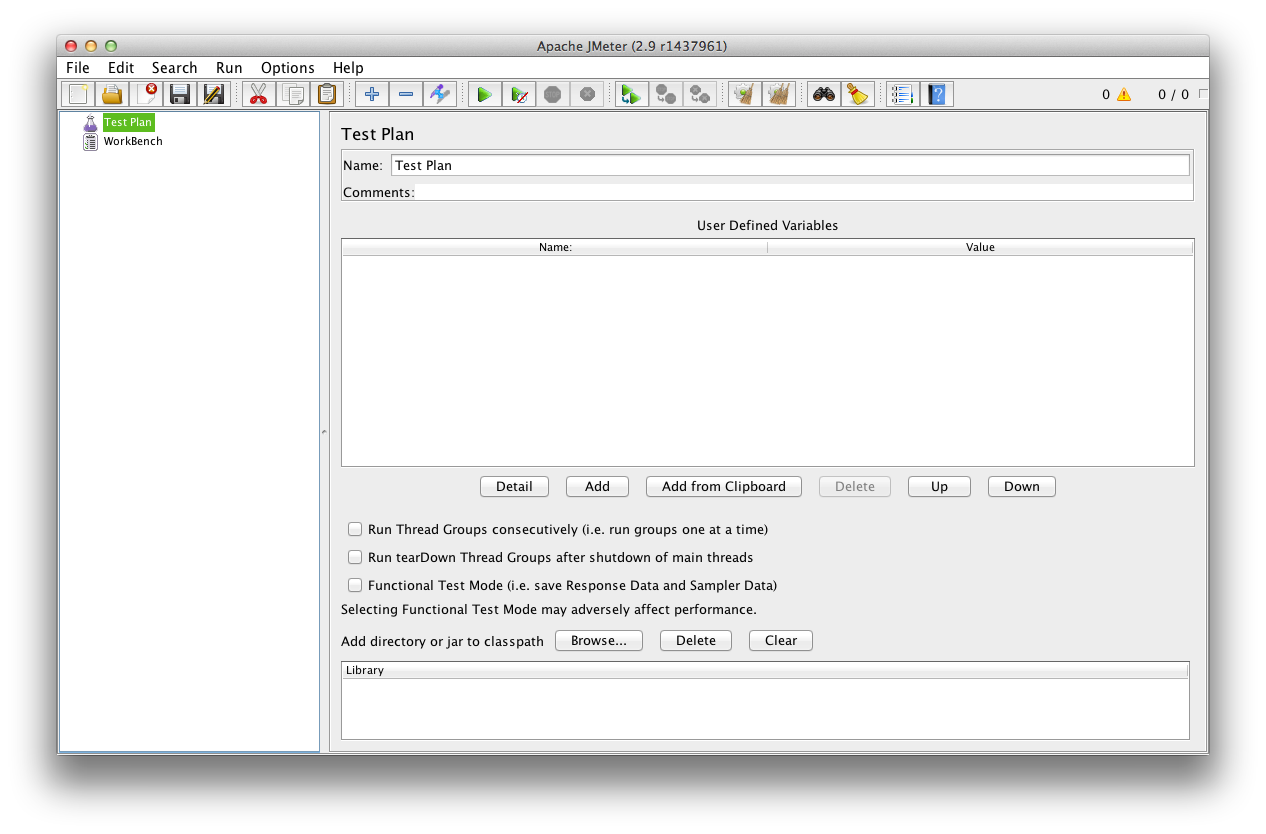
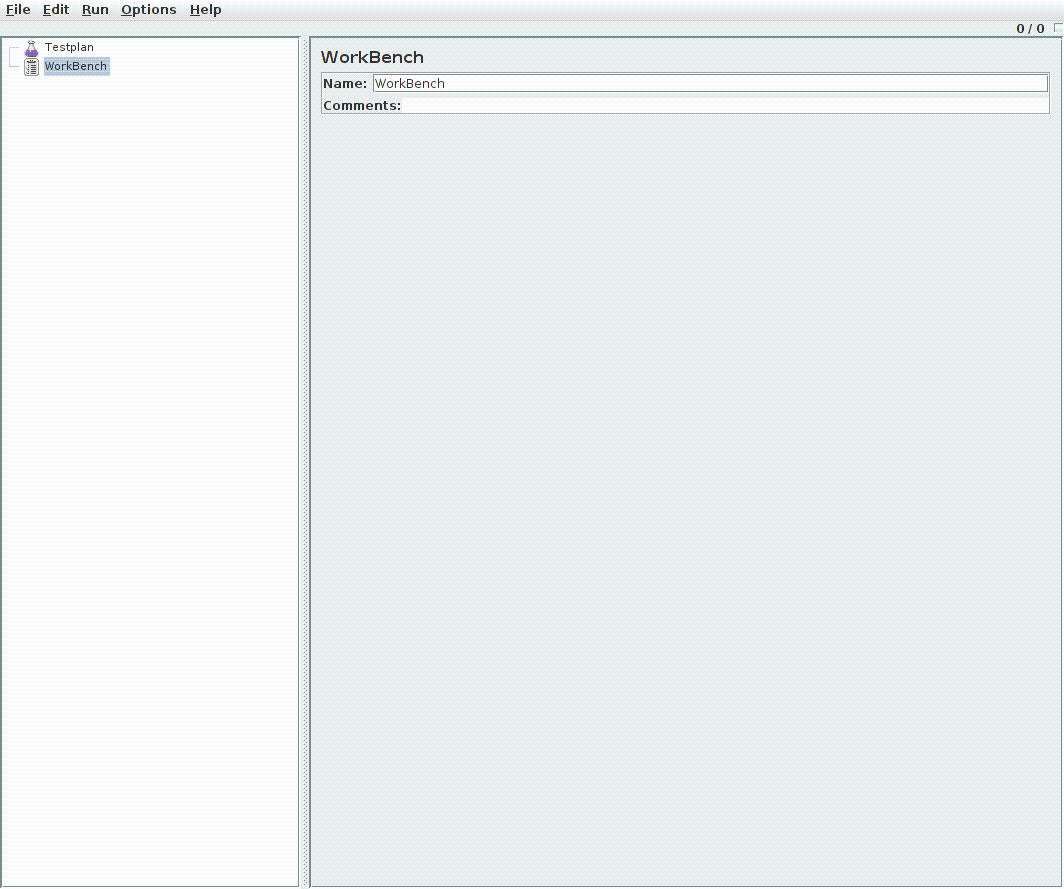
Add jmeter screenshots.

Changed region(s): [[0.0, 0.0, 1.0, 1.0]]

diff --git a/docs/source/jmeter/getting-started-with-jmeter.rst b/docs/source/jmeter/getting-started-with-jmeter.rst
@@ -21,8 +21,8 @@ of your distribution (e.g. on Debian/Ubuntu)::
    http://jmeter.apache.org/usermanual/get-started.html
 
 
-Step 2 : Create a minimal Testplan
-----------------------------------
+Step 2 : Create a Test Plan
+---------------------------
 
 Once you've started jMeter (e.g. by typing "jmeter" into the command line)
 you will see an empty Testplan:
@@ -45,7 +45,9 @@ Elements of a minimal test plan:
 
     * Summary Report (Listener)
 
-Test Plan:
+
+Step 3: Create a Thread Group
+-----------------------------
 
     Testplan > Add > Threads (Users) > Thread-Group (this might vary
     dependent on the jMeter version you are using)
@@ -54,6 +56,15 @@ Test Plan:
     Number of Threads (users): 2
     Ramp-Up Period (in seconds): 1
     Loop Count: 10
+
+.. figure::  jmeter-testplan-thread-group.png
+   :align:   center
+
+   Thread Group
+
+
+Step 4: Create HTTP Request Defaults
+------------------------------------
 
     Testplan > Users > Add > Config Element > HTTP Request Defaults
 
@@ -64,68 +75,57 @@ Test Plan:
 
     (The values are just defaults, not prefixes)
 
+.. figure::  jmeter-testplan-http-request-defaults.png
+   :align:   center
+
+   HTTP Request Defaults
+
+
+Step 5: Create an HTTP Request
+------------------------------
+
+   Thread Group
+
     Testplan > Users > Add > Sampler > HTTP Request
 
     Name: Front-page
     Path: /Plone/front-page
 
+.. figure::  jmeter-testplan-http-request.png
+   :align:   center
+
+   HTTP Request
+
+
+Step 6: Aggregate Graph
+-----------------------
+
     Testplan > Users > Add > Listener > Aggregate Graph
+
+.. figure::  jmeter-testplan-aggregate-graph.png
+   :align:   center
+
+   HTTP Request
+
+Step 6: View Results Tree
+-------------------------
 
     Testplan > Users > Add > Listener > View Results Tree (optional)
 
-Save Test Plan:
+
+Step 7: Save Test Plan
+----------------------
 
     File > Save Testplan as
 
-Run Test:
+Step 8: Run Performance Tests
+-----------------------------
 
     Run > Start
+
+Next Steps
+----------
 
 Creating a test plan:
 
 http://jmeter.apache.org/usermanual/build-web-test-plan.html
-
-
-Step 3: Run jMeter Tests on Jenkins
------------------------------------
-
-  * Install jMeter on your Jenkins machine. Or even better install it on a
-    dedicated performance testing machine to make sure your performance tests
-    are not affected by other server processes.
-
-  * Install the Jenkins Performance Plugin: https://wiki.jenkins-ci.org/display/JENKINS/Performance+Plugin
-
-  * Create a "New Free-Style Jenkins Job":
-    Name: myproject-performance-test-dev
-
-  * Source-Code-Management > Git > Repositories: git@bitbucket.org:tisto/myproject.git
-
-  * Source-Code-Management > Git > Branches to build: master
-
-  * Build > Add Build > Shell > Befehl: jmeter -n -t etc/myproject.jmx -l results.jtl
-
-    https://issues.jenkins-ci.org/browse/JENKINS-16627
-
-  * Post-Build-Actions > Add post-build action > Publish Performance test result report
-
-  * Post-Build-Actions > Publish Performance test result report > Add a new report: jMeterj
-
-  * Post-Build-Actions > Publish Performance test result report > Performance report > jMeter > Report files: **/*.jtl
-
-
-Performance: Failed to parse /srv/www/jenkins/.../myproject.jtl: Content is not allowed in prolog.
-
-
-Record Test
------------
-
-jMeter:
-
-    Workbench > Add > Non Test Elements > HTTP Proxy Server
-
-    Workbench > HTTP Proxy Server > Add > Logic Controller > Simple Controller
-
-Firefox:
-
-    Bearbeiten > Einstellungen > Erweitert >
-    Network (TAB) > Einstellungen > Manuelle Proxy Konfiguration
